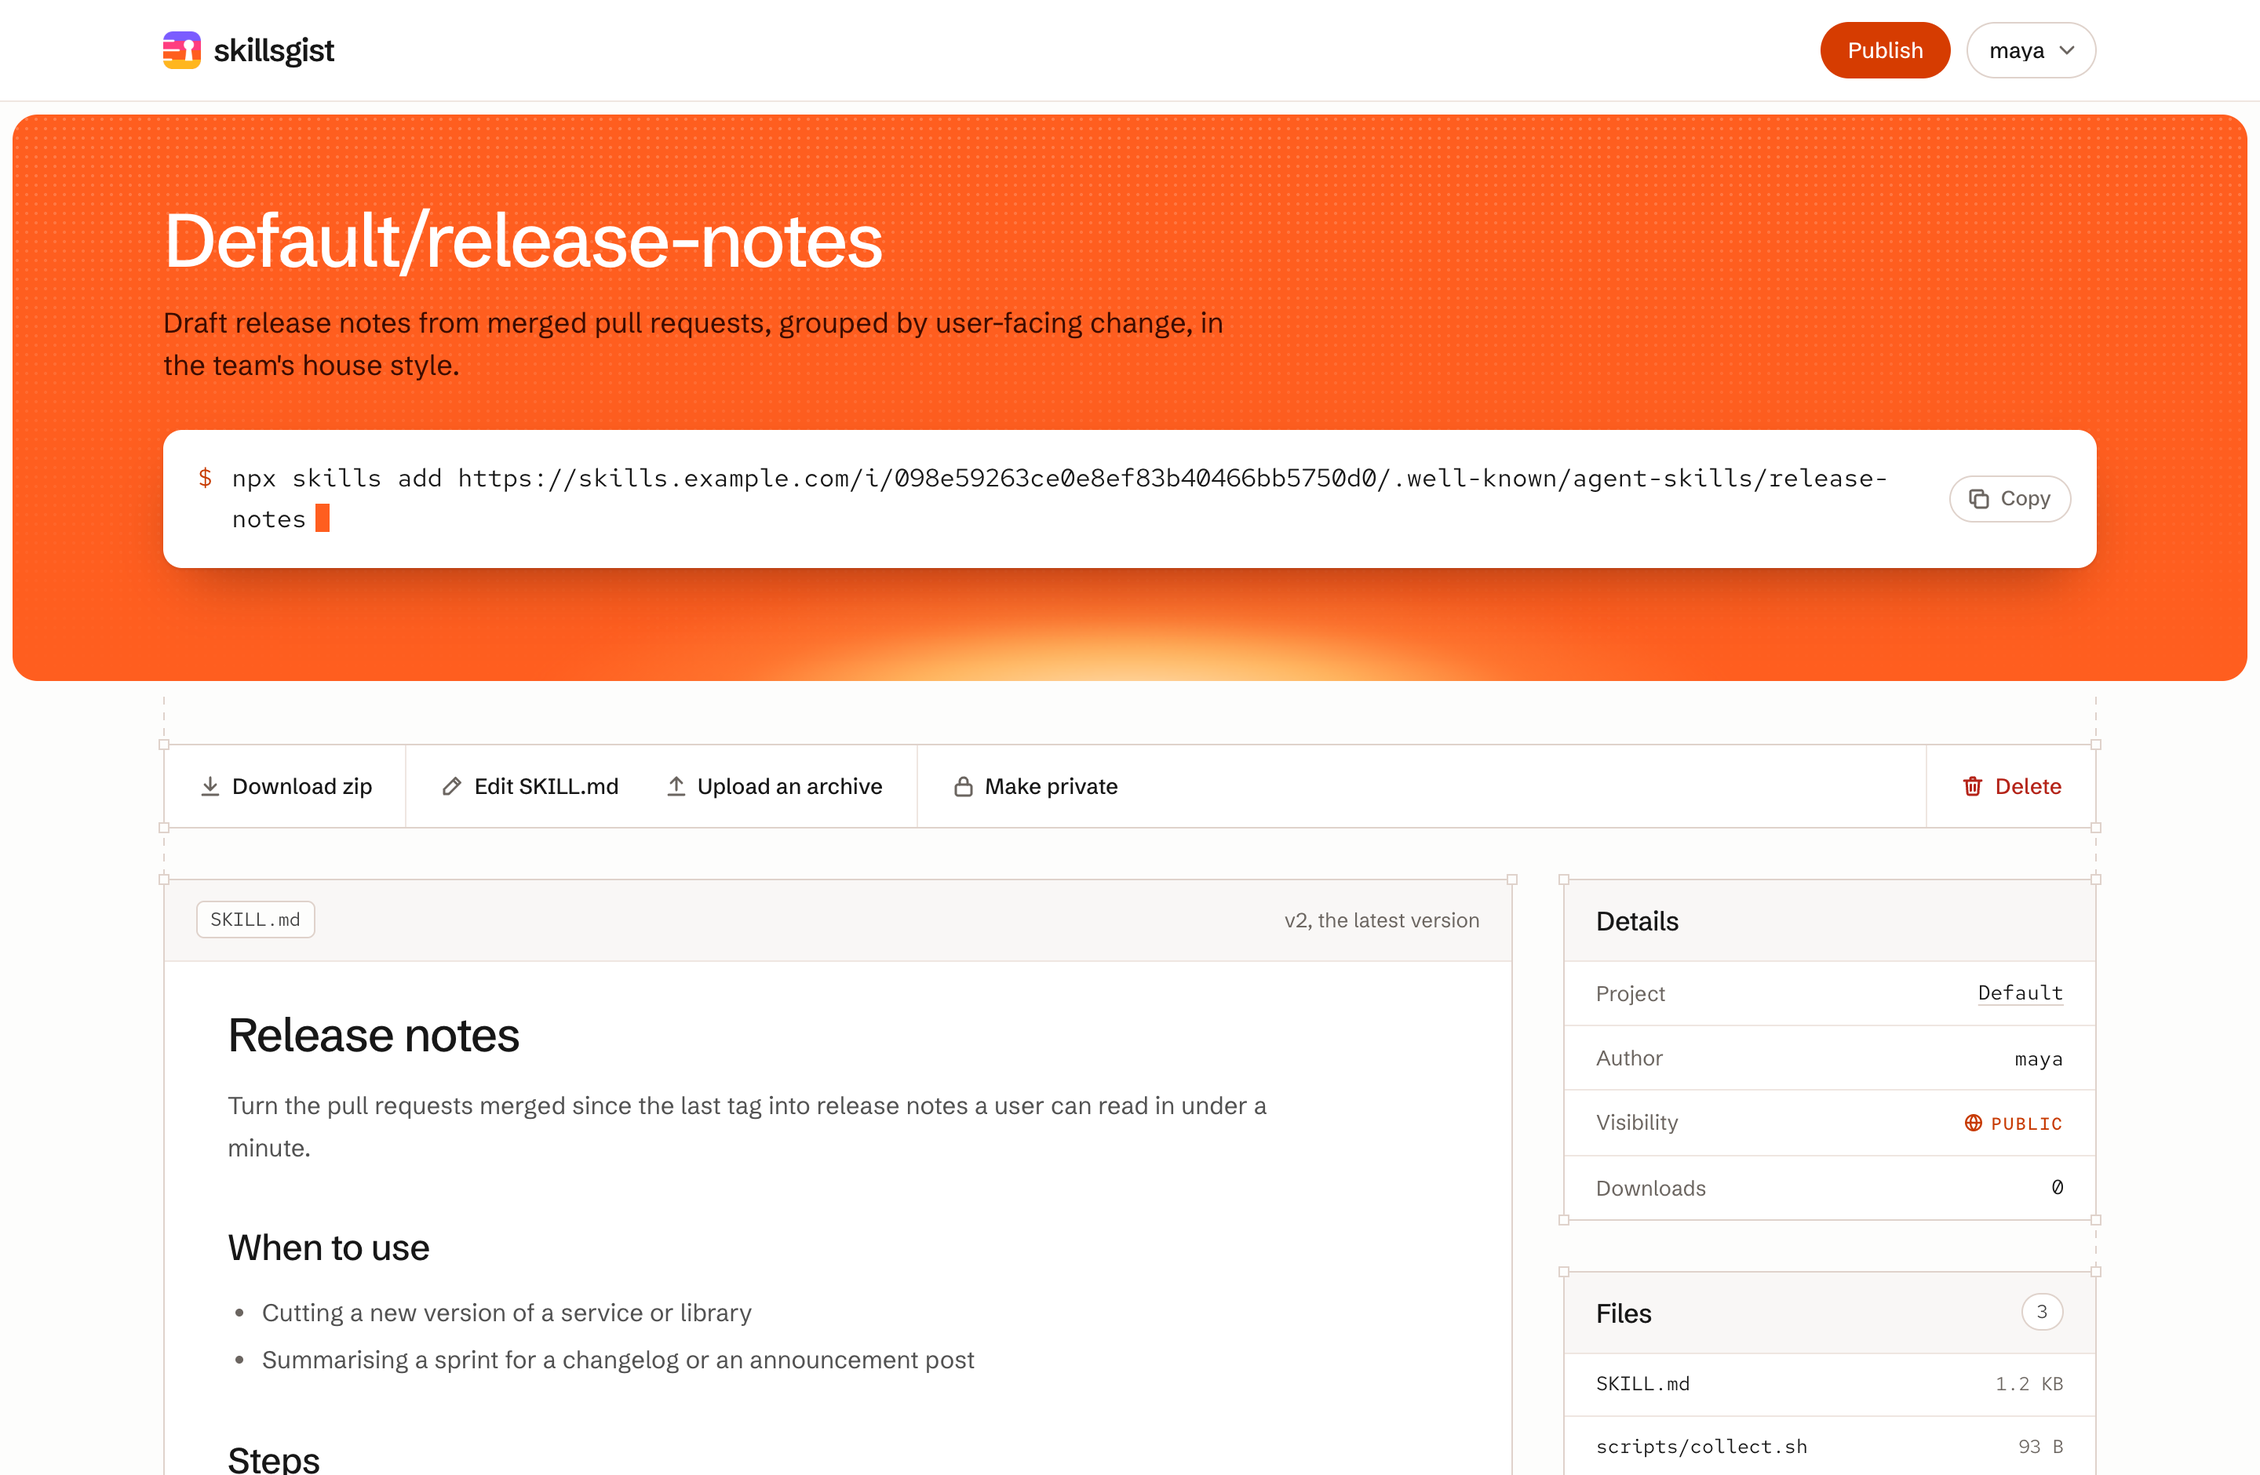
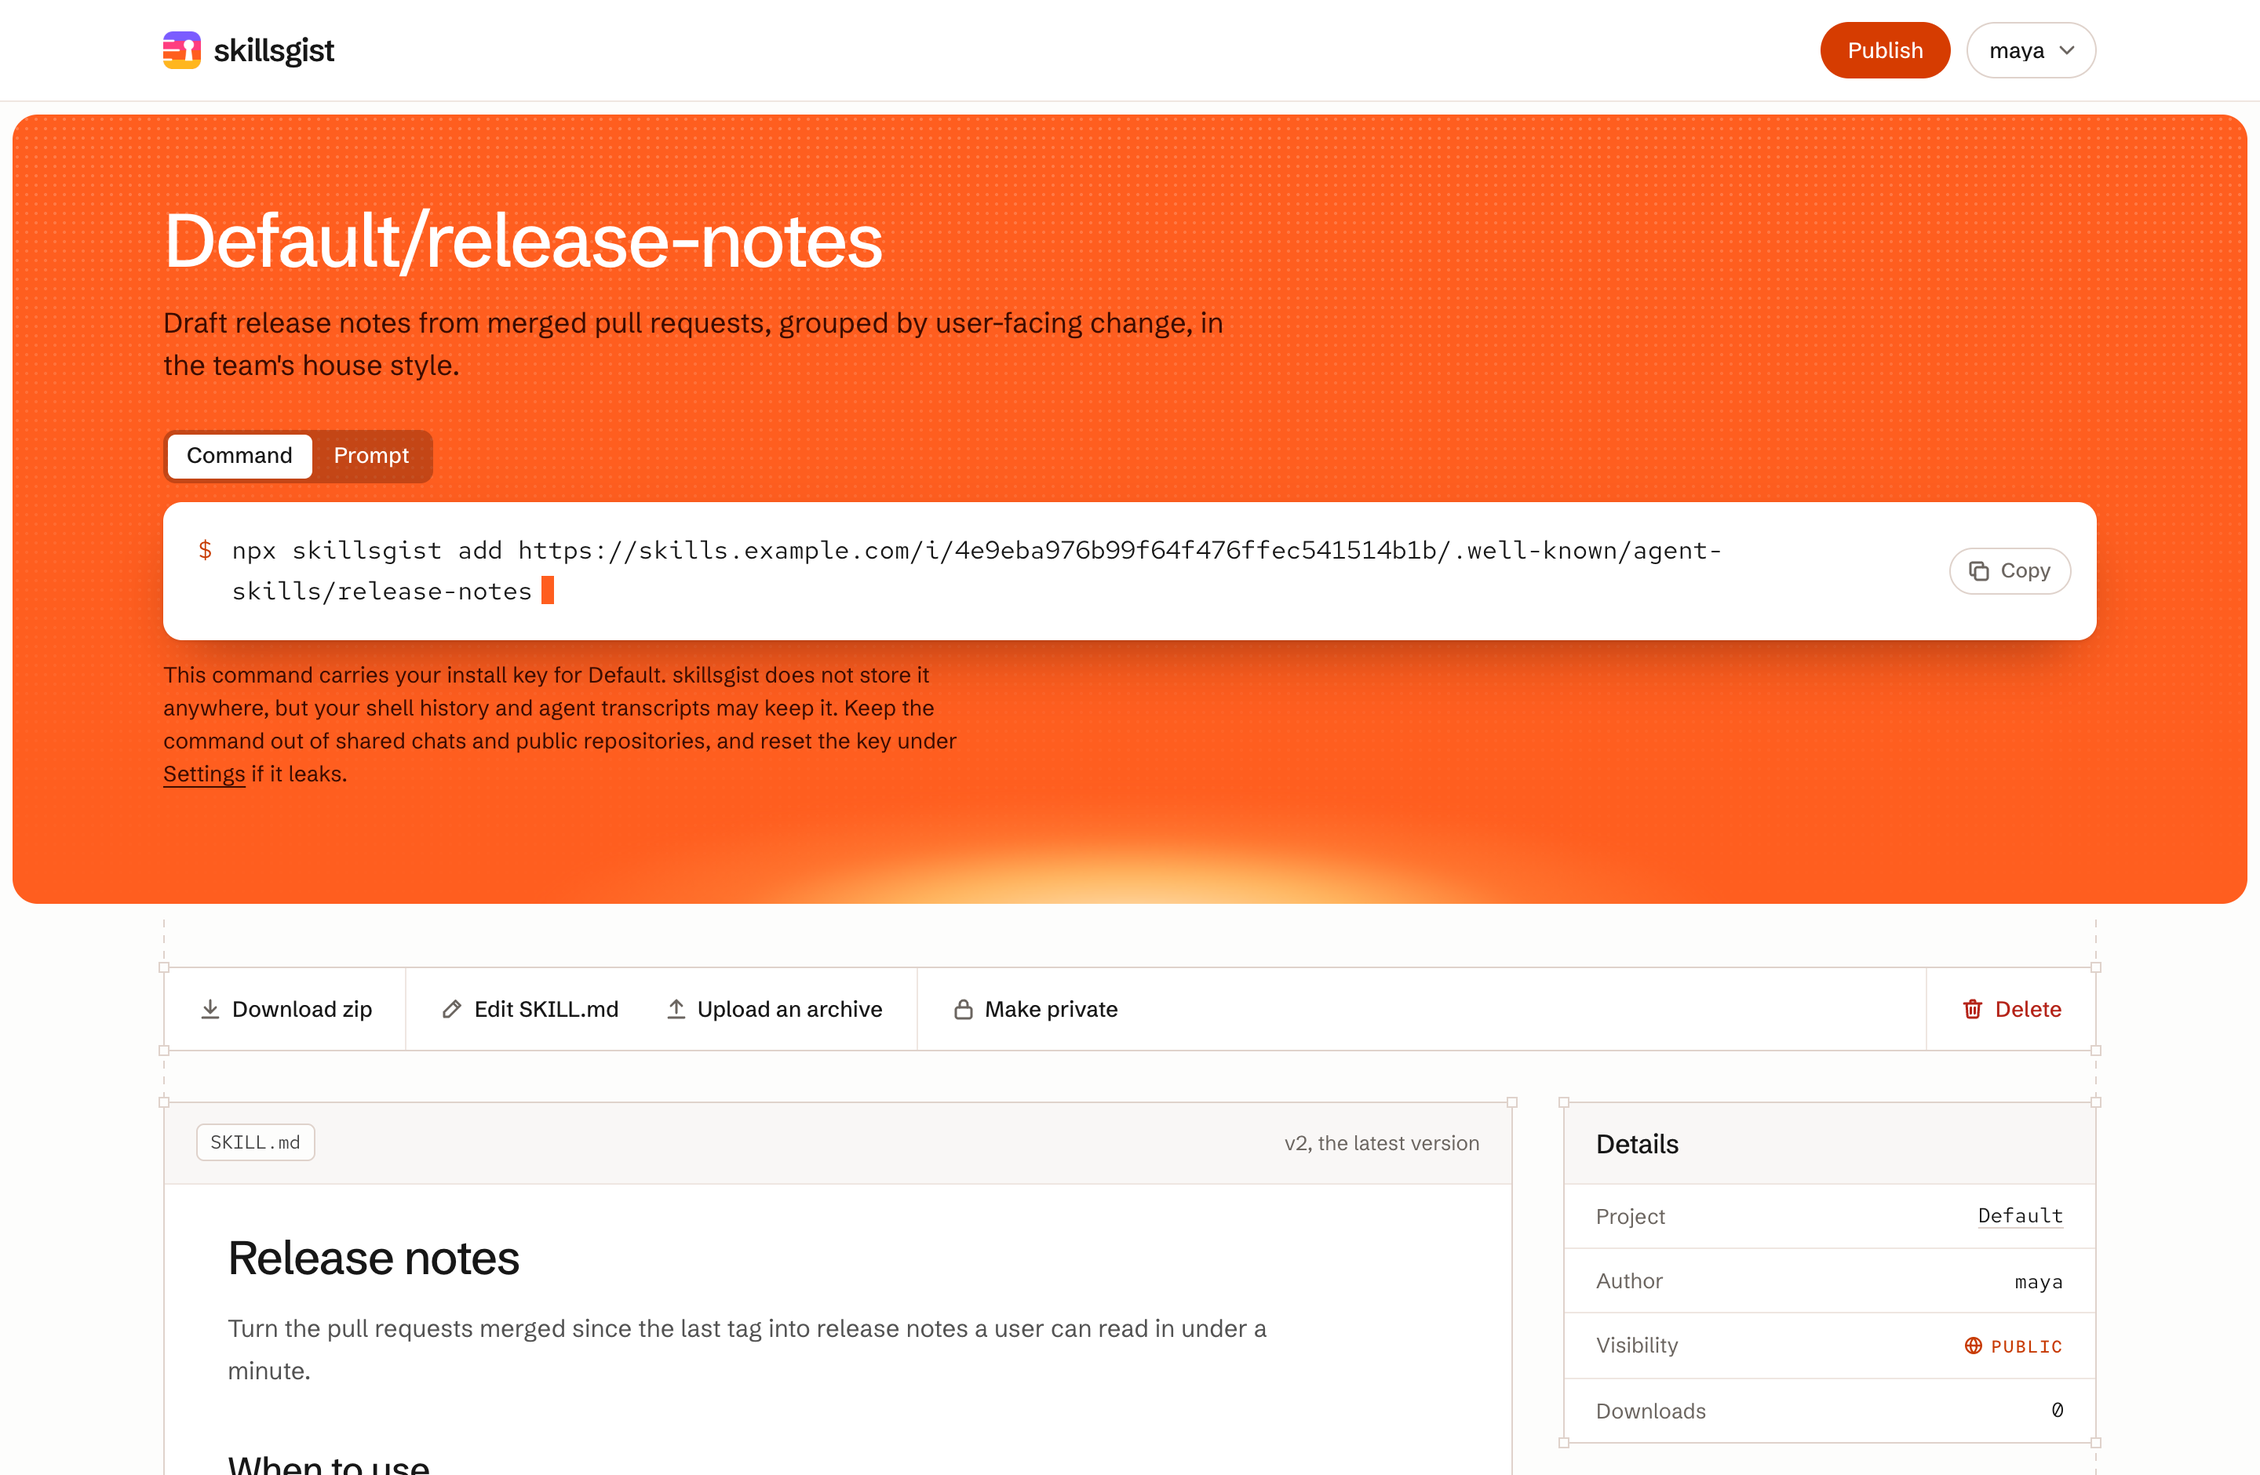
docs: recommend npx skillsgist and verify that it leaves no install key behind

diff --git a/scripts/social-preview.html b/scripts/social-preview.html
@@ -134,7 +134,7 @@
       <div class="plate"><img src="../public/logo.png" width="44" height="44" alt="" />skillsgist</div>
       <h1>Your private Agent Skills registry</h1>
       <p>Self-hosted on Cloudflare. Installed with the stock CLI.</p>
-      <div class="cmd"><span>$</span>npx skills add https://skills.example.com/i/&lt;install_key&gt;</div>
+      <div class="cmd"><span>$</span>npx skillsgist add https://skills.example.com/i/&lt;install_key&gt;</div>
     </div>
     <script>
       if (location.hash === "#og") document.documentElement.classList.add("og");

diff --git a/PRODUCT.md b/PRODUCT.md
@@ -11,7 +11,7 @@ web
 Two confirmed audiences, both first-class:
 
 - **Operators / self-hosters.** People who deploy their own skillsgist instance on Cloudflare and run it for themselves or a small trusted team. This includes the project's own author and team, and external people who take the open-source project and stand up their own instance.
-- **Skill consumers.** People who install skills from an instance they have been given access to. They never touch the web UI if they do not want to; they hold an install key and run `npx skills add`.
+- **Skill consumers.** People who install skills from an instance they have been given access to. They never touch the web UI if they do not want to; they hold an install key and run `npx skillsgist add`.
 
 Both the publisher/maintainer role and the installer/consumer role are primary. A single person is often both.
 
@@ -19,22 +19,22 @@ Every skill belongs to one project. An instance has two roles, `admin` and `memb
 
 ## Product Purpose
 
-A private registry for Agent Skills that one person can stand up on Cloudflare and manage from the browser. Skills are uploaded, edited, and versioned from the web, and installed with a single `npx skills add` command.
+A private registry for Agent Skills that one person can stand up on Cloudflare and manage from the browser. Skills are uploaded, edited, and versioned from the web, and installed with a single `npx skillsgist add` command.
 
-Success means a team can keep their skills private — not published to any shared public registry — and still install them with the unmodified stock CLI, on infrastructure they own.
+Success means a team can keep their skills private — not published to any shared public registry — and still install them with one command, on infrastructure they own, without the install key being stored on the installing machine or sent to a third party.
 
 ## Positioning
 
 **Self-hosting and privacy are the position.** The instance, the data, the storage bucket, and the credentials all belong to whoever deploys it. Skills are private by default; making one public is a deliberate per-skill act.
 
-The mechanism that makes this practical: skillsgist serves the skills.sh discovery protocol (`/.well-known/agent-skills/index.json`, discovery schema `0.2.0`) directly, so no custom client, plugin, or fork of the CLI is required. This is verified end to end against the real `npx skills` binary by `npm run verify:cli`.
+The mechanism that makes this practical: skillsgist serves the skills.sh discovery protocol (`/.well-known/agent-skills/index.json`, discovery schema `0.2.0`) directly, so any client that speaks it can install, the stock `npx skills` included. The UI recommends `npx skillsgist`, a minimal installer that speaks the same protocol and never stores the install key or sends it anywhere but the instance. `npm run verify:cli` checks both end to end.
 
 ## Operating Context
 
 - **First deploy.** Either the Deploy to Cloudflare button, which copies the repository, provisions D1 and R2, prompts for `SESSION_SECRET` (declared in `.dev.vars.example`) and deploys through Workers Builds; or by hand, `wrangler d1 create` + `wrangler r2 bucket create` + a `SESSION_SECRET` secret + `npm run deploy`, which applies remote migrations by binding name before deploying. `wrangler.jsonc` carries no account-specific IDs: Wrangler resolves D1 and R2 by name, so a clone deploys without editing tracked files. Then `/setup` creates the first admin and disables itself permanently once any user exists. Binding a custom domain is a Custom Domain added in the Cloudflare dashboard, which deploys leave alone; no code change.
 - **Publishing from the web.** `/new` accepts a `.zip`, a `.tar.gz`, or a single `SKILL.md`. `/p/:project/s/:slug/edit` changes only the `SKILL.md` text and repacks the previous version's other files unchanged. `/p/:project/s/:slug/upload` replaces the whole archive. Editing text and uploading an archive are deliberately two separate pages so a single page never offers two competing inputs. All three pages refuse content identical to the skill's latest version with an error, and a refused request changes nothing else, visibility included. Content identical to an older version still publishes, which is how a rollback works.
 - **Publishing from a terminal.** `PUT /api/projects/:project/skills/:slug` with `Authorization: Bearer <token>` and a raw archive body. The token is generated on demand from `/me`, or by an admin from the account's settings page, `/admin/users/:id`. Unlike the web pages, the API is idempotent: identical content answers `200` with `unchanged: true` and still applies `?visibility=`, so a script can republish on every push.
-- **Installing.** `npx skills add https://<domain>/i/<install_key>` for every skill in that key's project, `.../i/<key>/.well-known/agent-skills/<name>` for one skill, `https://<domain>/p/<project>` for one project's public skills with no key, or the bare origin for every public skill whose name no other project has also made public.
+- **Installing.** `npx skillsgist add https://<domain>/i/<install_key>` for every skill in that key's project, `.../i/<key>/.well-known/agent-skills/<name>` for one skill, `https://<domain>/p/<project>` for one project's public skills with no key, or the bare origin for every public skill whose name no other project has also made public. `npx skills add` accepts the same addresses.
 - **Account administration.** `/admin/users` lists accounts with their role, project count, created-skill count, join date and last sign-in. `/admin/users/:id` is one account's settings page, where an admin switches its role, resets its password, rotates its install keys, generates or revokes its API token, and deletes it. `/admin/users/new` creates them. `/projects` lists projects, each name opening its settings page, and instance admins create them at `/projects/new`. `/p/:project` is the home page for one project: the viewer's install command for it, a search over its skills and a grid of them. `/p/:project/settings` is where a member resets their key for it and sees its members, and where its admins rename it, add and remove members, and allow or block each member's publishing.
 - **Local development.** A local-only `SESSION_SECRET` in `.dev.vars`, `d1 migrations apply --local`, then `npm run dev` (Tailwind watch + `wrangler dev`). `npm test`, `npm run typecheck`, and `npm run verify:cli` are the verification commands; `verify:cli` starts its own `wrangler dev` with an injected secret and needs no `.dev.vars`.
 
@@ -54,7 +54,7 @@ The mechanism that makes this practical: skillsgist serves the skills.sh discove
 **Durable constraints**
 
 - **Server-rendered HTML; client-side JavaScript only as progressive enhancement.** Every page works with JavaScript disabled, and all interaction that changes state is forms and links. There are three scripts, all same-origin and deferred: `public/copy.js` adds one-click copy to command blocks because no HTML or CSS feature can write to the clipboard, `public/fold.js` folds a long SKILL.md, Files list or Versions list behind a Show more button because no HTML or CSS feature can tell whether an element overflows, and `public/dismiss.js` closes an open menu or confirmation on Escape, on a press outside it, or when focus leaves it, because a `<details>` element never closes itself.
-- **The stock CLI is the contract.** `npx skills` sends no custom headers, so a private install credential can only live in the URL path. An install key therefore belongs to one person in one project and is install-only: it cannot sign in, publish, delete, or reach another project's skills, and it is rotatable from the project's settings page in one click.
+- **The discovery protocol is the contract.** Clients such as `npx skills` send no custom headers, so a private install credential can only live in the URL path. An install key therefore belongs to one person in one project and is install-only: it cannot sign in, publish, delete, or reach another project's skills, and it is rotatable from the project's settings page in one click.
 - **API tokens never travel in a URL.** `/api/*` reads only `Authorization: Bearer` and never the session cookie, so a browser cannot be tricked into making an API call on a user's behalf. The web forms take the other path: a session-bound CSRF token attached automatically.
 - Content-Security-Policy on every HTML response: `default-src 'self'; script-src 'self'; img-src 'self' https:; object-src 'none'; base-uri 'none'; frame-ancestors 'none'`.
 - The last remaining admin can never be demoted or deleted.
@@ -75,7 +75,7 @@ The mechanism that makes this practical: skillsgist serves the skills.sh discove
 ## Evidence on Hand
 
 - `README.md` — real install, publish, deploy, and user-management instructions.
-- `npm run verify:cli` (`scripts/verify-cli.mjs`) — a contract test run against the real `npx skills` binary, the concrete proof behind the "no custom CLI needed" claim.
+- `npm run verify:cli` (`scripts/verify-cli.mjs`) — a contract test run against the real `npx skills` binary and the skillsgist CLI, the proof that the protocol works with the stock client and that the recommended one leaves no install key behind.
 - `test/` — the unit and integration suite, run under `@cloudflare/vitest-pool-workers`.
 - `docs/superpowers/plans/` — implementation plans for shipped work.
 
@@ -84,7 +84,7 @@ The mechanism that makes this practical: skillsgist serves the skills.sh discove
 ## Product Principles
 
 1. **Private by default; every act of sharing is explicit.** Nothing becomes public as a side effect.
-2. **The stock CLI is the contract.** Speak the published discovery protocol; never require a custom client, and never break `npx skills add`.
+2. **The discovery protocol is the contract.** Speak the published discovery protocol so any compatible client works, and never break `npx skills add`. The UI recommends `npx skillsgist` because it does not store the install key.
 3. **Server-rendered; JavaScript only enhances.** Forms and links carry every interaction. A script may add a convenience the platform cannot provide without it, such as clipboard copy, and the page must still work without it.
 4. **Both audiences are first-class.** The operator standing up an instance and the person who only ever runs one install command each deserve a path that works without learning the other's.
 5. **Stay self-hostable and cheap.** One person with a Cloudflare account must be able to deploy and run this without operational burden.

diff --git a/README.md b/README.md
@@ -25,7 +25,7 @@ A private Agent Skills registry you self-host on Cloudflare.
 - Immutable, numbered versions; every version stays viewable and downloadable, and republishing an older version's content rolls back
 - Content-addressed artifacts, so the CLI can verify every download against its digest
 - Rendered `SKILL.md` pages with a file list and version history
-- A copyable agent prompt next to each skill's install command that has an agent install the skill with `npx skills add` and follow it right away
+- A copyable agent prompt next to each skill's install command that has an agent install the skill with `npx skillsgist add` and follow it right away
 - Search across skill names, descriptions and body text
 - The web UI in English, Simplified Chinese, Traditional Chinese and Japanese, picked from the browser's language or the footer, at the same addresses in every language
 - Projects that group skills and people, with one install key per person per project that installs only that project's skills
@@ -114,6 +114,18 @@ jobs:
             https://skills.example.com/api/projects/<project>/skills/release-notes
 ```
 
+## Install skills
+
+Every skill page and project page shows its install command, for example:
+
+```bash
+npx skillsgist add https://skills.example.com/i/<install_key>
+```
+
+[`skillsgist`](https://www.npmjs.com/package/skillsgist) is a small installer that speaks the same discovery protocol as `npx skills` and puts skills in the same places for the same agents. Unlike `npx skills`, it keeps the install key to itself: it writes no lock file, sends no telemetry, contacts no host but your instance and masks the key in its output. `npx skills add` with the same address still works.
+
+The key still travels in the command, so shell history and agent transcripts can keep it. npm also writes the command line of every `npx` run to `_logs` in its cache directory (usually `~/.npm/_logs`). Run `npx --logs-max=0 skillsgist add ...` to skip that, and delete old logs from earlier `npx skills` runs.
+
 ## Projects, accounts and roles
 
 Every skill belongs to exactly one project, and people are members of projects. A project has a name, which its admins can change at any time, and an address such as `platform`, which is fixed when the project is created and appears in its page, install and API addresses. An instance has two roles:
@@ -167,7 +179,7 @@ The script writes the new password straight to the D1 database, so it needs the 
 
 ```mermaid
 flowchart LR
-  cli["npx skills add"] -- "GET /i/:key/.well-known/agent-skills/index.json" --> worker
+  cli["npx skillsgist add"] -- "GET /i/:key/.well-known/agent-skills/index.json" --> worker
   browser["Browser"] -- "HTML pages and forms" --> worker
   ci["CI / curl"] -- "PUT /api/projects/:project/skills/:name" --> worker
   worker["Cloudflare Worker<br/>(Hono)"] --> d1[("D1<br/>accounts, projects, skills, versions")]
@@ -206,6 +218,8 @@ npm test
 npm run typecheck
 npm run verify:cli
 ```
+
+Until `skillsgist` is published to npm, point `verify:cli` at a local build of [skillsgist-cli](../skillsgist-cli): `SKILLSGIST_CLI=../skillsgist-cli npm run verify:cli`.
 
 ## Contributing
 
